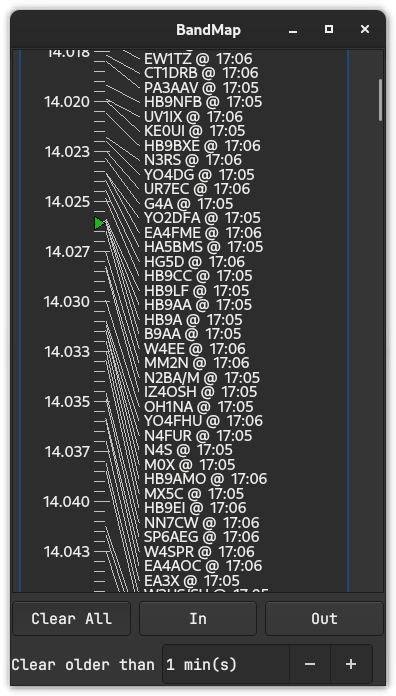
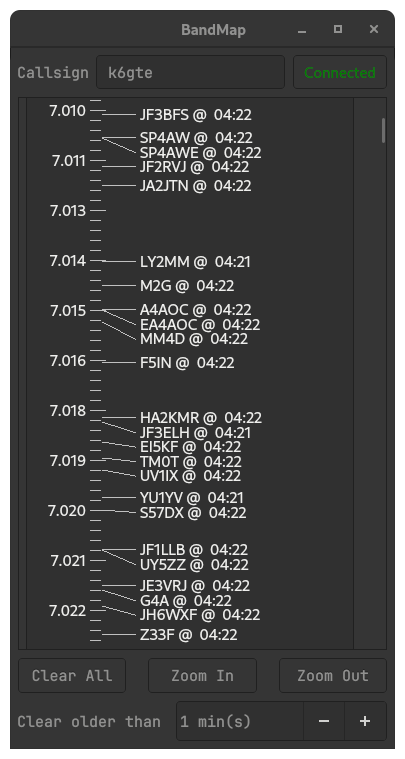
Added connection button.

diff --git a/not1mm/bandmap.py b/not1mm/bandmap.py
@@ -187,7 +187,7 @@ class MainWindow(QtWidgets.QMainWindow):
     something = None
     lineitemlist = []
     textItemList = []
-    agetime = 0
+    connected = False
 
     def __init__(self, *args, **kwargs):
         super().__init__(*args, **kwargs)
@@ -195,19 +195,20 @@ class MainWindow(QtWidgets.QMainWindow):
         self.udp_fifo = queue.Queue()
         data_path = WORKING_PATH + "/data/bandmap.ui"
         uic.loadUi(data_path, self)
+        self.agetime = self.clear_spot_olderSpinBox.value()
         self.clear_spot_olderSpinBox.valueChanged.connect(self.spot_aging_changed)
         self.clearButton.clicked.connect(self.clear_spots)
         self.zoominButton.clicked.connect(self.dec_zoom)
         self.zoomoutButton.clicked.connect(self.inc_zoom)
+        self.connectButton.clicked.connect(self.connect)
         self.spots = Database()
         self.bandmap_scene = QtWidgets.QGraphicsScene()
         self.socket = QtNetwork.QTcpSocket()
         self.socket.readyRead.connect(self.receive)
-        self.socket.connected.connect(self.connected)
+        self.socket.connected.connect(self.maybeconnected)
+        self.socket.disconnected.connect(self.disconnected)
         self.socket.errorOccurred.connect(self.socket_error)
         # self.socket.connectToHost("hamqth.com", 7300)
-        self.socket.connectToHost("dxc.nc7j.com", 7373)
-
         self.bandmap_scene.clear()
         self.bandmap_scene.setFocusOnTouch(False)
         self.bandmap_scene.selectionChanged.connect(self.spot_clicked)
@@ -225,6 +226,19 @@ class MainWindow(QtWidgets.QMainWindow):
         )
         self.udpsocket.joinMulticastGroup(QtNetwork.QHostAddress(MULTICAST_GROUP))
         self.udpsocket.readyRead.connect(self.watch_udp)
+
+    def connect(self):
+        """doc"""
+        if self.connected is True:
+            self.socket.close()
+            self.connected = False
+            self.connectButton.setStyleSheet("color: red;")
+            self.connectButton.setText("Closed")
+            return
+        self.socket.connectToHost("dxc.nc7j.com", 7373)
+        self.connectButton.setStyleSheet("color: white;")
+        self.connectButton.setText("Connecting")
+        self.connected = True
 
     def watch_udp(self):
         """doc"""
@@ -469,12 +483,13 @@ class MainWindow(QtWidgets.QMainWindow):
         data = self.socket.readAll()
         data = str(data, "utf-8").strip()
         if "login:" in data:
-            self.send_command("k6gte")
-            self.send_command("Set DX Filter Not Skimmer AND SpotterCont=NA")
-            self.send_command("sh dx o filter")
+            self.send_command(self.callsignField.text())
+            # self.send_command("Set DX Filter Not Skimmer AND SpotterCont=NA")
+            # self.send_command("sh dx o open")
             # self.send_command("reject/spot 0 info FT8")
             # self.send_command("accept/spot 0 freq hf/cw")
             # self.send_command("accept/spot 1 freq hf/ssb")
+            return
         if "DX de" in data:
             parts = data.split()
             spotter = parts[2]
@@ -489,20 +504,28 @@ class MainWindow(QtWidgets.QMainWindow):
             try:
                 spot["freq"] = float(freq) / 1000
             except ValueError:
-                print(data)
+                logger.debug("%s", f"{data}")
             self.spots.addspot(spot)
+            return
+        if self.callsignField.text().upper() in data:
+            self.connectButton.setStyleSheet("color: green;")
+            self.connectButton.setText("Connected")
+            logger.debug("%s", f"{data}")
 
-    def connected(self):
+    def maybeconnected(self):
         """doc"""
-        print("Connected")
+        self.connectButton.setStyleSheet("color: yellow;")
+        self.connectButton.setText("Connecting")
 
     def socket_error(self):
         """doc"""
         print("An Error occurred.")
 
-    def disconnect(self):
+    def disconnected(self):
         """doc"""
-        self.socket.close()
+        self.connected = False
+        self.connectButton.setStyleSheet("color: red;")
+        self.connectButton.setText("Closed")
 
     def send_command(self, cmd: str):
         """doc"""

diff --git a/README.md b/README.md
@@ -356,6 +356,8 @@ The bottom half of the log displays contacts sorted by what's currently in the c
 
 `Window`>`Bandmap`
 
+Put your callsign in the top and press the connect button.
+
 The bandmap window is, as with everything, a work in progress. The bandmap now follows the VFO. VFO indicator now displays as small triangle in the frequency tickmarks. Clicked on spots now tune the radio and set the callsign field.
 
 ![Bandmap Window](https://github.com/mbridak/not1mm/raw/master/pic/bandmap.png)
